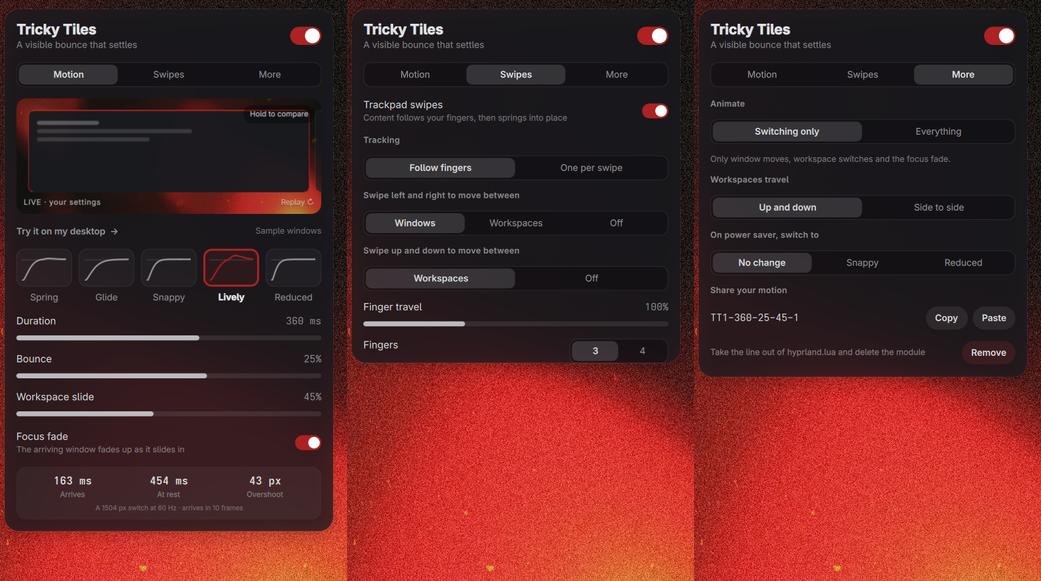
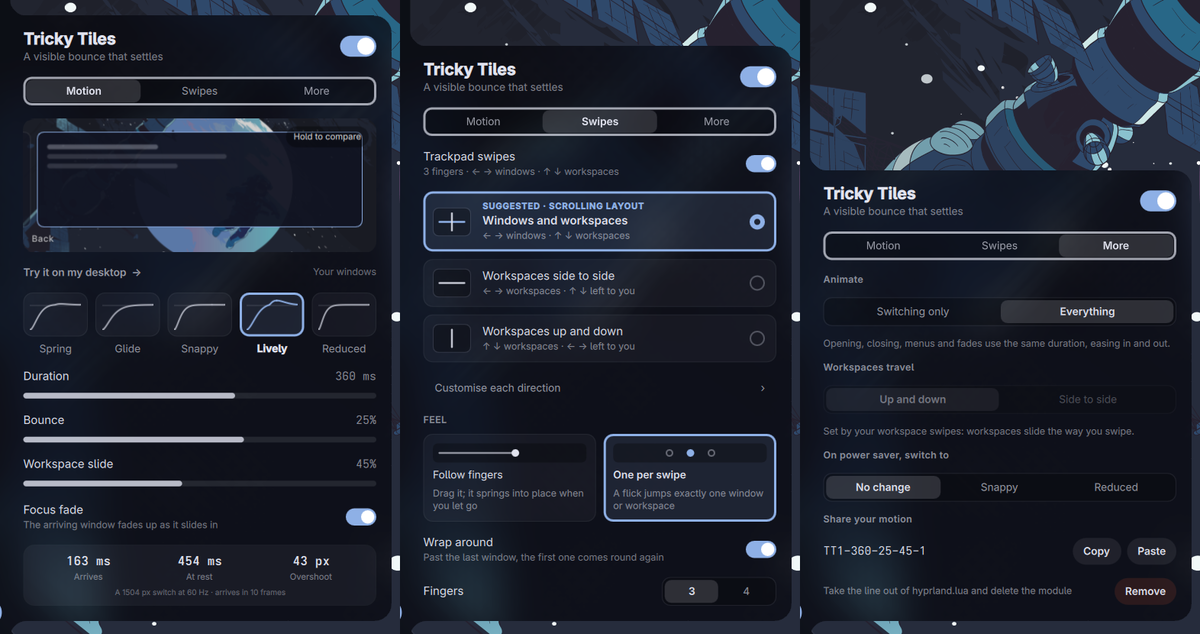
README: Swipes tab setups and a new panel screenshot

diff --git a/README.md b/README.md
@@ -57,7 +57,7 @@ Moves start from rest, keep their momentum when you interrupt them, and settle, 
 - **Presets, drawn as their curves**: Spring (default), Glide (no overshoot), Snappy, Lively (a visible bounce that settles) and Reduced (least motion).
 - **Sliders**: duration, bounce, and workspace slide (full slide, a short lift with a fade, or a plain crossfade). A focus fade eases the arriving window up to its focused opacity.
 - **A live preview** with stills of your own windows. Hold *Compare* to see stock Omarchy, or press *Try it on my desktop* for one real window step and workspace hop.
-- **Trackpad swipes**: *Follow fingers* or *One per swipe* (with optional wrap-around on the window strip). Three or four fingers, adjustable finger travel.
+- **Trackpad swipes**: pick a setup (*Windows and workspaces*, *Workspaces side to side* or *Workspaces up and down*); the one that fits your layout is marked, and *Customise each direction* sets left/right and up/down separately. Then a feel: *Follow fingers* or *One per swipe* (with optional wrap-around on the window strip). Three or four fingers, adjustable finger travel.
 - **Everything mode** (optional): opening, closing, menus and fades share the same duration.
 - **Power saver**: switch to Snappy or Reduced while the power-saver profile is on.
 - **Share codes** such as `TT1-290-15-30-1` to copy a motion to another machine.
